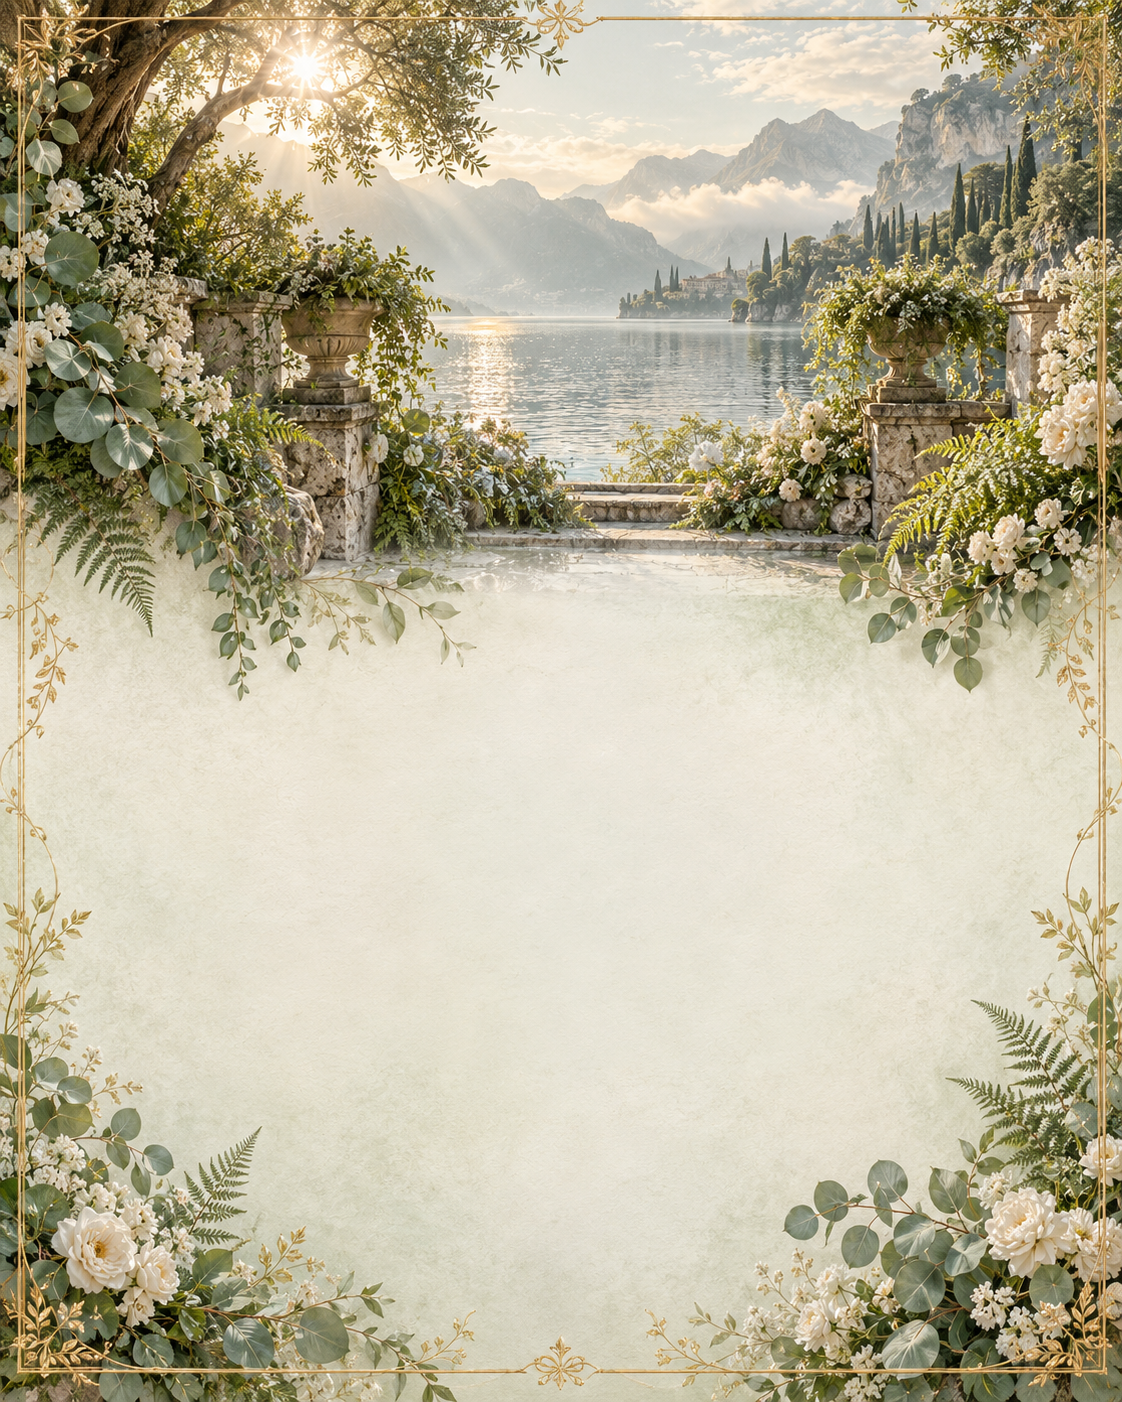
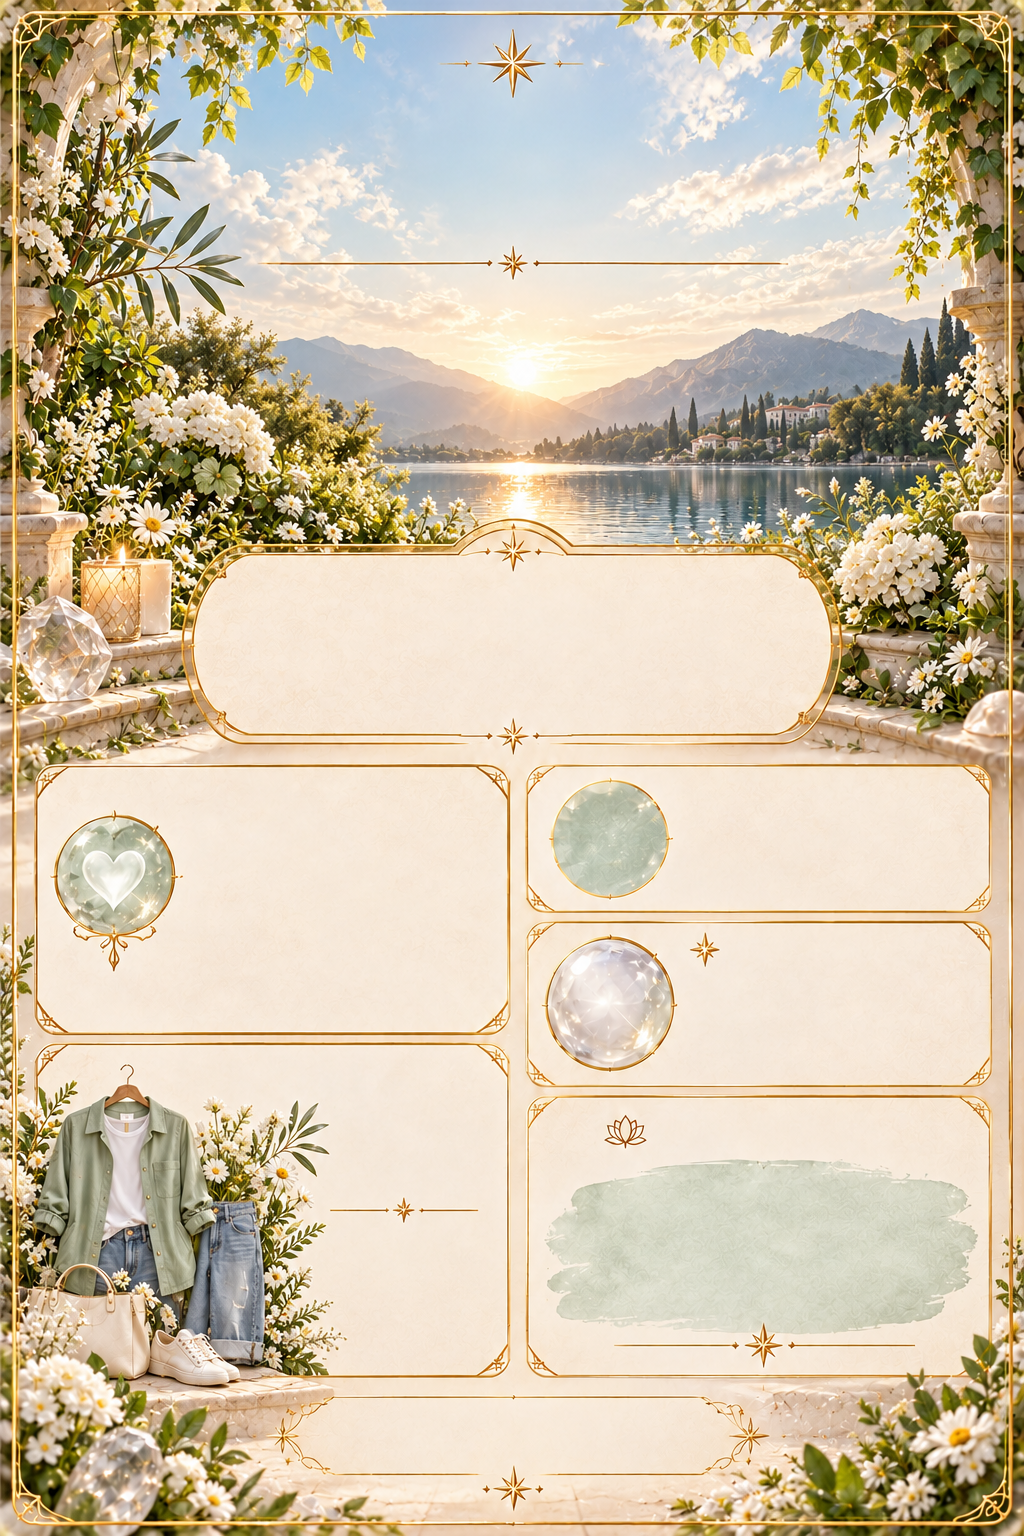
Use reference-inspired realistic seven-day card backgrounds and editable poster typography

diff --git a/evelyn-studio/daily_card_template.html b/evelyn-studio/daily_card_template.html
@@ -1,3 +1,6 @@
-<!doctype html><html lang="en-US"><meta charset="utf-8"><style>
-*{box-sizing:border-box}body{margin:0;color:#413047}.card{position:relative;width:1080px;height:1350px;overflow:hidden;background:var(--bg);font-family:Georgia,serif}.card.story{height:1920px}.backdrop{position:absolute;inset:0;width:100%;height:100%;object-fit:cover}header{position:absolute;top:55px;left:100px;right:100px;text-align:center;text-shadow:0 1px 9px #fff5e7}header .series{font:48px/1.06 Georgia,serif;font-variant:small-caps;letter-spacing:2px;background:rgba(255,247,235,.72);border-radius:60px;padding:14px 8px}header .theme{font:22px/1.4 Arial,sans-serif;letter-spacing:3px;margin-top:12px;background:rgba(255,247,235,.88);border-top:1px solid #C3A06B;border-bottom:1px solid #C3A06B;padding:9px}.date{font:16px Arial,sans-serif;letter-spacing:2px;margin-top:12px;background:rgba(255,247,235,.82);display:inline-block;padding:6px 12px;border-radius:20px}.content{position:absolute;top:490px;left:80px;right:80px}.section{position:relative;background:rgba(255,248,235,.95);border:1.5px solid #C3A06B;box-shadow:inset 0 0 0 5px rgba(255,248,235,.65),inset 0 0 0 6px #e5cc9d,0 3px 14px #77534b18;border-radius:24px;padding:24px 26px}.section:before{content:'✧';position:absolute;right:12px;top:8px;color:#C3A06B;font-size:19px}.label{font:18px/1.3 Arial,sans-serif;letter-spacing:2px;text-transform:uppercase;margin-bottom:12px;text-align:center}.section p{font:27px/1.35 Georgia,serif;margin:0;text-align:center}.message{margin-bottom:16px;padding:23px 30px;border-radius:50px}.message p{font-size:29px}.headline{font:24px/1.25 Georgia,serif;text-align:center;margin-bottom:12px;color:#714966}.grid{display:grid;grid-template-columns:1fr 1fr;grid-template-rows:105px 115px 180px;gap:14px}.love{grid-column:1;grid-row:1/3;display:flex;flex-direction:column;justify-content:center}.color{grid-column:2;grid-row:1}.color p{font-size:25px;display:flex;justify-content:center;align-items:center;gap:12px}.swatch{width:26px;height:26px;border-radius:50%;background:var(--main);border:1px solid #C3A06B;flex-shrink:0}.number{grid-column:2;grid-row:2;padding:16px}.number p{font-size:43px;line-height:1.15}.number small{font:15px Arial}.style{grid-column:1;grid-row:3;padding:20px}.style p{font-size:25px}.affirmation{grid-column:2;grid-row:3;display:flex;flex-direction:column;justify-content:center;background:linear-gradient(120deg,#fff9eeeF,var(--main))}.affirmation p{font-size:27px;font-style:italic}.foot{font:14px/1.5 Arial,sans-serif;text-align:center;margin:18px 20px 0;background:rgba(255,248,235,.92);padding:8px;border-radius:12px}.story header{top:85px}.story .series{font-size:56px}.story .content{top:850px}.story .message{padding:40px}.story .grid{grid-template-rows:125px 150px 240px;gap:18px}.story .section p{font-size:31px}.story .style p{font-size:29px}.story .foot{margin-top:30px}.story .label{font-size:20px}.story .number p{font-size:54px}
-</style><main class="card {{FORMAT}}" style="--main:{{MAIN}};--bg:{{BACKGROUND}}"><img class="backdrop" src="{{ART}}" alt=""><header><div class="series">Daily<br>Spiritual Guidance</div><div class="theme">{{THEME}}</div><div class="date">{{DATE}}</div></header><div class="content"><section class="section message"><div class="label">Daily Message</div><div class="headline">{{HEADLINE}}</div><p>{{MESSAGE}}</p></section><div class="grid"><section class="section love"><div class="label">Love Insight</div><p>{{LOVE}}</p></section><section class="section color"><div class="label">Lucky Color</div><p><span class="swatch"></span>{{COLOR}}</p></section><section class="section number"><div class="label">Lucky Number</div><p>{{NUMBER}} <small>· for fun</small></p></section><section class="section style"><div class="label">Today's Style</div><p>{{STYLE}}</p></section><section class="section affirmation"><div class="label">Today's Affirmation</div><p>“{{AFFIRMATION}}”</p></section></div><div class="foot">Lucky colors and numbers are playful inspiration, not predictions.<br>General reflection · No personal astrology or promised outcomes.</div></div></main></html>
+<!doctype html><html lang="en-US"><meta charset="utf-8"><title>Daily Spiritual Guidance — reference layout sample</title><style>
+*{box-sizing:border-box}body{margin:0}.card{position:relative;width:1024px;height:1536px;color:#351528;font-family:Georgia,'Times New Roman',serif}.bg{position:absolute;inset:0;width:100%;height:100%}.text{position:absolute;text-align:center;overflow:hidden}h1,p{margin:0}h1{font-size:70px;line-height:1.01;font-weight:400;font-variant:small-caps;letter-spacing:1px;text-shadow:0 1px 4px #fff3e2}.title{top:101px;left:150px;width:724px;height:145px}.theme{top:289px;left:140px;width:744px;height:40px;font-size:24px;letter-spacing:5px;text-transform:uppercase}.message{top:582px;left:226px;width:572px;height:132px;font-size:25px;line-height:1.3}.label{font-size:20px;letter-spacing:2px;text-transform:uppercase}.love{top:790px;left:194px;width:294px;height:225px}.love p{font-size:25px;line-height:1.32;margin-top:20px}.color{top:785px;left:687px;width:285px;height:125px;text-align:left}.color strong{display:block;font-size:27px;margin-top:17px;font-weight:400}.color p{font-size:20px;line-height:1.3;margin-top:3px}.number-label{top:942px;left:733px;width:245px;height:30px;text-align:left}.number{top:965px;left:563px;width:102px;height:71px;font-size:58px}.number-copy{top:982px;left:699px;width:270px;height:85px;text-align:left;font-size:20px;line-height:1.3}.style-label{top:1066px;left:235px;width:260px;height:30px}.style{top:1128px;left:321px;width:176px;height:240px;font-size:22px;line-height:1.37}.style strong{font-weight:400;display:block;margin-bottom:32px}.style p{font-size:20px}.affirm-label{top:1124px;left:648px;width:326px;height:30px;font-size:18px;letter-spacing:1.5px}.affirm{top:1190px;left:567px;width:392px;height:128px;font-size:30px;line-height:1.4}.footer{top:1410px;left:280px;width:463px;height:61px;font-size:20px;letter-spacing:3px;line-height:1.4;text-transform:uppercase}
+
+.card{width:1080px;height:1350px;background:var(--bg)}.canvas{position:absolute;width:1024px;height:1536px;left:90px;top:0;transform:scale(.87890625);transform-origin:top left}.card.story{height:1920px}.story .canvas{left:0;top:150px;transform:scale(1.0546875)}.title h1{font-weight:400}.theme{font-size:21px;letter-spacing:3px}.love p{font-size:24px}.style strong{font-size:20px;margin-bottom:32px}.style p{font-size:19px}.affirm{font-size:27px}.footer{font-size:18px}
+</style><main class="card {{FORMAT}}" style="--bg:{{BACKGROUND}}"><div class="canvas"><img class="bg backdrop" src="{{ART}}" alt=""><div class="text section title"><h1>Daily<br>Spiritual Guidance</h1></div><div class="text section theme">{{HEADLINE}}</div><div class="text section message">{{MESSAGE}}</div><section class="text section love"><div class="label">Love Insight</div><p>{{LOVE}}</p></section><section class="text section color"><div class="label">Lucky Color</div><strong>{{COLOR}}</strong><p>A gentle color cue<br>for your day.</p></section><div class="text section label number-label">Lucky Number</div><div class="text section number">{{NUMBER}}</div><div class="text section number-copy">A playful reminder<br>to make space<br>for reflection.</div><div class="text section label style-label">Today’s Style</div><section class="text section style"><strong>{{COLOR}}<br>&amp; Cream</strong><p>{{STYLE}}</p></section><div class="text section label affirm-label">Today’s Affirmation</div><div class="text section affirm">&ldquo;{{AFFIRMATION}}&rdquo;</div><div class="text section footer">Take what resonates,<br>and let the rest unfold.</div></div></main></html>
+
